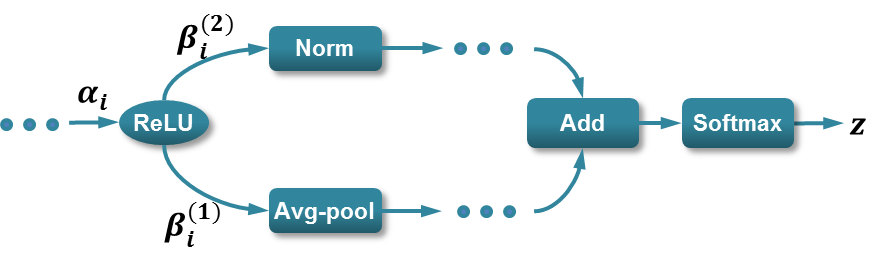
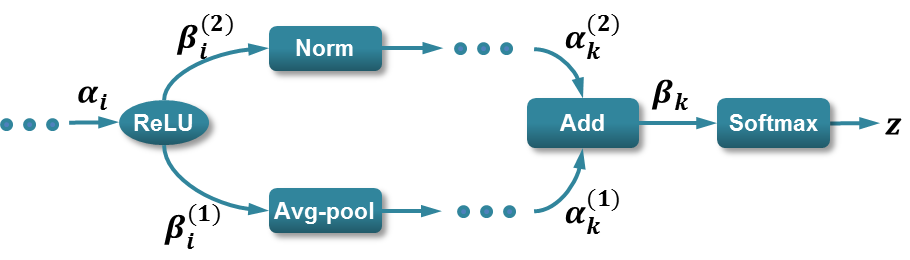
updated sec 3 and 4

Changed region(s): [[0.0, 0.031, 0.9874, 0.9612]]

diff --git a/BoMSA_review.tex b/BoMSA_review.tex
@@ -164,19 +164,19 @@ We then search for an ``optimal'' combination of multi-scale features with a gre
 
 Both the retrival and classification analysis suggest that we should employ multi-scale features for the highly variant classification tasks. For our latter analysis and experiments on other datasets, we use scales selected by the forward selection algorithm on MIT67 data (shown in Fig.~\ref{fig:forward_select}). In this way, we also demonstrate the data-independent property of our approach.
 
-
-\subsection{Model\label{sec:model}}
+\section{Approach}
+{\bf Model}
 
 Based on the analysis in Sec.~\ref{sec:motivation}, we propose a novel deep DAG-CNN architecture shown in Fig.~\ref{fig:model}. A typical CNN layer consists one of four layers, \ie, Conv., ReLU, contrast normalization (Norm), pooling layers (with the Norm and pooling layers being optional). Different from the traditional \textit{chain} model~\cite{AlexNet,veryDeep}, the DAG-CNN links each ReLU to an average-pooling layer, which feeds to a FC layer thereafter. Before connecting into the Soft-max layer, an \textit{Add} layer is introduced to combine the responses from all FC layers. 
 
 \begin{figure*}[t!]
 \centering
 	\includegraphics[width=\textwidth]{fig/fig_model.png}
-\caption{Our multi-scale DAG-CNN architecture is constructed by adding (marginalized) multi-scale output connections to an underlying {\em chain backbone} from the original CNN.\deva{Change formatting to reduce verticle space (too much whitespace)}. \songfan{Does this make sense?}}
+\caption{Our multi-scale DAG-CNN architecture is constructed by adding (marginalized) multi-scale output connections to an underlying {\em chain backbone} from the original CNN.}
 \label{fig:model}
 \end{figure*}
 
-\subsection{Training}
+{\bf Training}
 
 Let $\textbf{w}_1,...\textbf{w}_K$ be the CNN model parameters at $1,..,K$-th layer, training data be ($\textbf{x}^{(i)},\textbf{y}^{(i)}$), where $\textbf{x}^{(i)}$ is the $i$-th input image and $\textbf{y}^{(i)}$ is the indicator vector of the class of $\textbf{x}^{(i)}$. Then we intend to solve the following optimization problem
 
@@ -184,7 +184,7 @@ Let $\textbf{w}_1,...\textbf{w}_K$ be the CNN model parameters at $1,..,K$-th la
 \argmin_{\textbf{w}_1,...\textbf{w}_K} \frac{1}{n}\sum_{i=1}^{n} \mathcal{L}(f(\textbf{x}^{(i)};\textbf{w}_1,...,\textbf{w}_K),\textbf{y}^{(i)})
 \end{align}
 
-We adopt the stochastic gradient descent to minimize the objective function. For a traditional \textit{chain} model, the derivative of the objective function computed by chain rule results in the well-known back-propagation algorithm. In our proposed complex model, care need to be taken in the feed-forward for Add layer and back-propagation for all the ReLU layers. In the feed-forward step, the Add unit simply adds multiple inputs from all ReLU layers. In the back-prop step for $i$-th ReLU layer (seen in Fig.~\ref{fig:backprop_eq}), let $\alpha_i$ be its input, $\beta_i^{(j)}$ be the output for its $j$-th branching; $z$ is the final output of the Softmax layer. Thus, the gradient of $z$ with respect to $i$-th ReLU layer can be computed as
+We adopt the stochastic gradient descent to minimize the objective function. For a traditional \textit{chain} model, the derivative of the objective function computed by chain rule results in the well-known back-propagation algorithm. In our DAG-CNN model, care need to be taken in the feed-forward for Add layer and back-propagation for all the ReLU layers. In the feed-forward step, the Add unit simply adds multiple inputs from all ReLU layers. In the back-prop step for $i$-th ReLU layer (seen in Fig.~\ref{fig:backprop_eq}), let $\alpha_i$ be its input, $\beta_i^{(j)}$ be the output for its $j$-th branching; $z$ is the final output of the Softmax layer. Thus, the gradient of $z$ with respect to the input of the $i$-th ReLU layer can be computed as
 
 \begin{align}
 \frac{\partial z}{\partial \alpha_i}=\sum_{j=1}^{C}\frac{\partial z}{\partial \beta_i^{(j)}}\frac{\partial \beta_i^{(j)}}{\partial \alpha_i}
@@ -201,38 +201,44 @@ We adopt the stochastic gradient descent to minimize the objective function. For
 \label{fig:backprop_eq}
 \end{figure}
 
+In a more general setting, where Add layer is extended to some \textit{Combine} layer, $g(\cdot)$, such that $\beta_k=g(\alpha^{(1)}_k,\cdots,\alpha^{(N)}_k)$ and $\alpha^{(j)}_k=h(\alpha_i)$. Thus, the chain rule still hold true, \ie,
+\begin{align}
+\frac{\partial z}{\partial \alpha_i}&=\frac{\partial z}{\partial \beta_k}\frac{\partial \beta_k}{\partial \alpha_i} \\
+&=\frac{\partial z}{\partial \beta_k}\sum_{j=1}^{C}\frac{\partial g}{\partial \alpha_k^{(j)}}\frac{\partial g}{\partial \alpha_i}
+\end{align} 
 
-\section{Discussions\label{sec:ana}}
+Therefore, although our model is a complex DAG, we do not complicate the training algorithm and the training is still as efficient as chain model.
 
-\subsection{Back-propagate Gradient}
+{\bf Vanishing Gradients} Vanishing Gradient~\cite{bengio1994learning} refers to the problem where the gradients value decrease in the back-propagation procedure. This makes CNN training difficult since the gradient updates in the bottom layers are not as effective. In our DAG-CNN model, this problem is solved by directly linking layers at different level to the output layer. As seen in Fig.~\ref{fig:grad}, the average gradient of our DAG-CNN at the bottom layer is consistently larger than that of a chain model during training time. This make our training more efficient. 
 
 \begin{figure}[htbp]
 \centering
 	\includegraphics[width=.8\columnwidth]{fig/fig_grad.png}
-\caption{The average gradient Layer-1 Conv. during training. The gradients in DAG are consistently larger, which means they are back-propagated more effective.}
+\caption{The average gradient Layer-1 Conv. during training. The gradients in DAG are consistently larger. This means that the gradients are effective back-propagated and thus, makes the model easier to train.}
 
 \label{fig:grad}
 \end{figure}
 
 
+\section{Discussions\label{sec:ana}}
+
 \subsection{off-the-shelf Model Instantiation}
 
-We first point out an interesting instantiation of our model, linking back to the analysis in Section~\ref{sec:multi}. We could switch the softmax loss to hinge loss and freeze the back-prop at the FC layer. In this way, we prevent altering the chain-part of our model and only allow training on the augmented part our model, \ie, we learn an linear combination of the FC layers represents multi-scale ReLU activations. Thus, this is equivalent of training a SVM classifier based on the concatenation of the average-pooled activations at all ReLUs. As a result, we could extract multi-scale features using pre-trained CNN models such as the ones in~\cite{AlexNet, veryDeep} and use off-the-shelf SVM solver such as~\cite{liblinear} to train the augmented part our model.
+We first point out an interesting instantiation of our model, linking back to the analysis in Section~\ref{sec:motivation}. We could switch the softmax loss to hinge loss and freeze the back-prop at the FC layer. In this way, we prevent altering the chain-part of our model and only allow training on the augmented part our model, \ie, we learn an linear combination of the FC layers represents multi-scale ReLU activations. Thus, this is equivalent of training a SVM classifier based on the concatenation of the average-pooled activations at all ReLUs. As a result, we could extract multi-scale features using pre-trained CNN models such as the ones in~\cite{AlexNet, veryDeep} and use off-the-shelf SVM solver such as~\cite{liblinear} to train our DAG-CNN model.
 
-\subsection{Relationship to the literature}
-
-Our work is inspired by~\cite{Gong14}. In~\cite{Gong14}, local patches at three scales are first extracted (roughly 50 patches per image in their setting); each patch is then feed to an off-the-shelf CNN and the activations of the first fully connected layer (4096-dimension) are used for post processing, \ie, K-means + VLAD pooling. 
-
-Our approach has several advantages over~\cite{Gong14}:
-\begin{enumerate}
-\item \cite{Gong14} computes multiple feed-forward on patches generated from a single image. Computing convolution is the bottleneck for this procedure. In our approach, our model is trained to adapt to multi-scale features. Thus, during test phase,
-only one feed-forward computation is needed for one image. As matter of fact, extracting feature of one image in~\cite{Gong14} takes more than 20 seconds while ours only take less than 1 second for the augmented Caffe model. 
-
-\item \cite{Gong14} uses K-means clustering algorithm in the VLAD pooling, which can generate inconsistent results due to random initialization. 
-
-\item \cite{Gong14} conducts two steps of PCA (first PCA to reduce $4096$-dimensional activation to $500$-dimension, and second PCA to reduce $50,000$-dimensional VLAD pooled feature to $4096$-dimension). This can also be one bottleneck of their approach. 
-
-\end{enumerate} 
+%\subsection{Relationship to the literature}
+%Our work is inspired by~\cite{Gong14}. In~\cite{Gong14}, local patches at three scales are first extracted (roughly 50 patches per image in their setting); each patch is then feed to an off-the-shelf CNN and the activations of the first fully connected layer (4096-dimension) are used for post processing, \ie, K-means + VLAD pooling. 
+%
+%Our approach has several advantages over~\cite{Gong14}:
+%\begin{enumerate}
+%\item \cite{Gong14} computes multiple feed-forward on patches generated from a single image. Computing convolution is the bottleneck for this procedure. In our approach, our model is trained to adapt to multi-scale features. Thus, during test phase,
+%only one feed-forward computation is needed for one image. As matter of fact, extracting feature of one image in~\cite{Gong14} takes more than 20 seconds while ours only take less than 1 second for the augmented Caffe model. 
+%
+%\item \cite{Gong14} uses K-means clustering algorithm in the VLAD pooling, which can generate inconsistent results due to random initialization. 
+%
+%\item \cite{Gong14} conducts two steps of PCA (first PCA to reduce $4096$-dimensional activation to $500$-dimension, and second PCA to reduce $50,000$-dimensional VLAD pooled feature to $4096$-dimension). This can also be one bottleneck of their approach. 
+%
+%\end{enumerate} 
 
 %Overall, the implementation of \textit{multi-scale orderless} feature in~\cite{Gong14} is not only inefficient but also prone to over-fitting due to a number of hyper-parameter tuning. On the contrary, our implementation is easy to compute and little parameter tuning is needed. 
 
@@ -241,9 +247,9 @@ only one feed-forward computation is needed for one image. As matter of fact, ex
 
 Besides the insight on visualizing deep CNN features,~\cite{visual_cnn} provides transformation invariance analysis of their model on several images. This is done by comparing the feature vector distance between the original and transformed images. Realizing that several examples do not necessarily represents the overall statistics,~\cite{Gong14} improve the invariance analysis by experiments on the SUN397 scene database~\cite{SUN397}. Unfortunately, only the results on 4 categories are provided in their paper. The performance for the entire dataset is still unknown.
 
-To close the aforementioned gap and analyze the invariance of our representation, we carried out experiments on the entire MIT Indoor dataset~\cite{MIT67} and report the average performance. We intend to compare the tolerance to transformation of the our multi-scale feature compared with a single-scale CNN feature. Concretely, the single-scale CNN feature in comparison is the activation of a CNN model which achieves best classification performance (not necessarily the output of the first FC layer). For a fair comparison, the multi-scale features are extracted by concatenating the output of all sum-pooling layers. We first trained $67$-way one-vs-all linear SVM classifiers for all $67$ classes using features extracted from the original images. During test phase, four transformations are considered for the analysis, \ie, translation, scaling, flipping, and rotation. Fig.~\ref{fig:invar_eg} illustrates all the transformations and their corresponding parameters, which are similar to the ones in~\cite{Gong14}. 
+To close the aforementioned gap and analyze the invariance of our DAG-CNN feature vs. single scale features, we carried out experiments on the entire MIT Indoor dataset~\cite{MIT67} and report the average performance. We intend to compare the tolerance to transformation of the our multi-scale feature compared with a mid-level (Layer-11) and a high-level (Layer-20) single-scale CNN features. The multi-scale features are extracted by concatenating the output of all average-pooling layers. We first trained $67$-way one-vs-all linear SVM classifiers for all $67$ classes using features extracted from the original images. During test phase, four transformations are considered for the analysis, \ie, translation, scaling, flipping, and rotation. Fig.~\ref{fig:invar_eg} illustrates all the transformations and their corresponding parameters, which are similar to the ones in~\cite{Gong14}. 
 
-After applying the transformations to test images, both multi- and single-scale features are extracted. The classification is conducted using the trained SVMs, and the accuracy is shown in Fig.~\ref{fig:invar_rst}. Each data point represents the performance on the entire test data. As seen in Fig.~\ref{fig:invar_rst}, the transformations almost always hurt the performance except for horizontal flip. This observation is similar to the one in~\cite{Gong14}. We also see that multi-scale feature consistently out-performs the single-scale feature under every degree of all transformations. As far as the invariance is concerned, we observe the similar level of performance decrease. This means that both features have the similar level of tolerance to transformations. This immediately suggest that ``training jittering'', \ie, including transformations in the training data, will improve the performance. 
+After applying the transformations to test images, both multi-scale, mid-level, high-level features are extracted. The classification is conducted using the trained SVMs, and the accuracy is shown in Fig.~\ref{fig:invar_rst}. Each data point represents the performance on the entire test data. As seen in Fig.~\ref{fig:invar_rst}, the transformations almost always hurt the performance except for horizontal flip. This observation is similar to the one in~\cite{Gong14}. We also see that multi-scale feature consistently out-performs the high-level feature, which out-perform mid-level features under every degree of all transformations. As far as the invariance is concerned, we observe the similar level of performance decrease except for vertical flip. This means that all three features have the similar level of tolerance to transformations. This immediately suggest that ``training jittering'', \ie, including transformations in the training data, will improve the performance. Fig.~\ref{fig:inv_f} shows that the mid-level feature is more robust to vertical flipping. We believe this is because that objects and parts, mainly represented by mid-level features, are more reflectional symmetry than holistic spatial structure. 
 
 
 \begin{figure}[htbp]
@@ -254,7 +260,7 @@ After applying the transformations to test images, both multi- and single-scale 
 	\subfigure[h-translation]{\includegraphics[width=.49\columnwidth]{fig/invar/h.png}\label{fig:inv_h}}
 	\subfigure[rotation]{\includegraphics[width=.49\columnwidth]{fig/invar/r.png}\label{fig:inv_r}}
 
-\caption{The classification accuracy of various transformations on test images in MIT67 data~\cite{MIT67}. The legends shown in Fig.~\ref{fig:inv_v} is the same in the other four figures.}
+\caption{The classification accuracy of various transformations on test images in MIT67 data~\cite{MIT67}. The legends shown in Fig.~\ref{fig:inv_s} is the same in the other four figures.}
 
 \label{fig:invar_rst}
 \end{figure}
@@ -389,7 +395,7 @@ Baseline~\cite{Scene15} & 65.2 \\
 \begin{figure}[htbp]
 \centering
 	\includegraphics[width=\columnwidth]{fig/fig_conf_diff.pdf}
-\caption{The performance improvement of multi-scale over single-scale features on MIT67 in confusion matrix fashion. It is generated by subtracting the the confusion matrix for single-scale from the one for multi-scale. The small differences are ignored. Both \textit{black} and \textit{yellow} label shows the most improved categories, where \textit{black} labels are categories best-classified by high-level features found in Fig.~\ref{fig:best_perf_layer_hist}; similarly, \textit{yellow} label are the ones for mid-level features. \textit{Red} label shows the performance decrease by choosing multi-scale features.}
+\caption{The performance improvement of multi-scale over single-scale features on MIT67 in confusion matrix fashion. It is generated by subtracting the the confusion matrix for single-scale from the one for multi-scale. The small differences are ignored. Both \textit{black} and \textit{yellow} label on the diagonal shows the most improved categories, where \textit{black} labels are categories best-classified by high-level features found in Fig.~\ref{fig:best_perf_layer_hist}; similarly, \textit{yellow} label are the ones for mid-level features. \textit{Red} label shows the performance decrease by choosing multi-scale features.}
 
 \label{fig:conf_diff}
 \end{figure}
